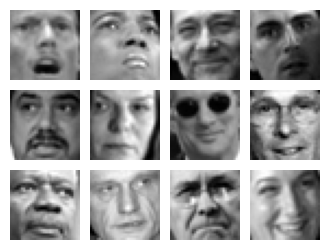
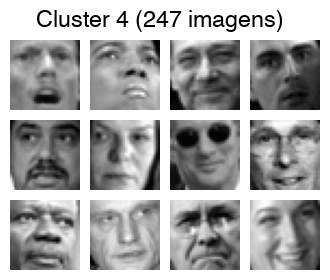
image generate

diff --git a/Proj2/pca_processing.py b/Proj2/pca_processing.py
@@ -1,17 +1,79 @@
+from pathlib import Path
+
 import numpy as np
+import matplotlib.pyplot as plt
 from scipy.io import loadmat
 
 from utils import feature_normalize, pca, project_data, recover_data, show_N_images
 
 
+DATA_PATH = Path(__file__).parent / "data" / "face_data.mat"
+OUTPUT_DIR = Path(__file__).parent / "results" / "pca"
+
+plt.rcParams.update({
+    "font.family": "Helvetica",
+    "font.size": 14,
+    "axes.titlesize": 16,
+    "axes.labelsize": 14,
+    "legend.fontsize": 12,
+})
+
+
+def save_summary_panel(originals, eigenfaces, reconstructions):
+    row_titles = [
+        "Eigenfaces (PCs 1–9)",
+        "Originais",
+        "Reconstruções (100 PCs)",
+    ]
+    images_by_row = (eigenfaces[:9], originals[:9], reconstructions[:9])
+    fig, axes = plt.subplots(3, 9, figsize=(20, 8))
+
+    for row, images in enumerate(images_by_row):
+        for col, image in enumerate(images):
+            axes[row, col].imshow(image, cmap="gray")
+            axes[row, col].axis("off")
+            if row == 0:
+                axes[row, col].set_title(f"PC {col + 1}", fontsize=13)
+            elif row == 1:
+                axes[row, col].set_title(f"Exemplo {col + 1}", fontsize=13)
+
+    fig.suptitle("PCA: eigenfaces e reconstruções", fontsize=22)
+    fig.subplots_adjust(left=0.17, right=0.995, top=0.88, bottom=0.04, wspace=0.06, hspace=0.16)
+    for row, title in enumerate(row_titles):
+        position = axes[row, 0].get_position()
+        fig.text(
+            0.16, position.y0 + position.height / 2, title,
+            ha="right", va="center", fontsize=14,
+        )
+
+    fig.canvas.draw()
+    renderer = fig.canvas.get_renderer()
+    for row, label in ((0, "A"), (1, "B")):
+        title_box = axes[row, 0].title.get_window_extent(renderer)
+        title_center_y = fig.transFigure.inverted().transform(title_box.get_points().mean(axis=0))[1]
+        fig.text(
+            0.16, title_center_y, label,
+            ha="right", va="center", fontsize=24, fontweight="bold",
+        )
+    panel_path = OUTPUT_DIR / "pca_summary_9.png"
+    fig.savefig(panel_path, dpi=200, bbox_inches="tight")
+    plt.show()
+    print(f"Painel resumido salvo em: {panel_path}")
+
+
 def main():
-    faces_data = loadmat("data/face_data.mat")
+    OUTPUT_DIR.mkdir(parents=True, exist_ok=True)
+    faces_data = loadmat(DATA_PATH)
     faces = faces_data["X"]
     # The face vectors use MATLAB's column-major image layout.
     originals = faces[:100].reshape(-1, 32, 32).transpose(0, 2, 1)
     print(faces.shape)
 
-    show_N_images(originals, 100, show=True)
+    show_N_images(
+        originals, 100, show=True,
+        save_path=OUTPUT_DIR / "originals_100.png",
+        title="100 faces originais",
+    )
 
 
     X, mu, sigma = feature_normalize(faces)
@@ -19,16 +81,30 @@ def main():
 
     U, _, _ = pca(X)
     eigenfaces = U[:, :36].T.reshape(-1, 32, 32).transpose(0, 2, 1)
-    show_N_images(eigenfaces, 36, show=True)
+    show_N_images(
+        eigenfaces, 36, show=True,
+        save_path=OUTPUT_DIR / "eigenfaces_36.png",
+        title="36 primeiras eigenfaces",
+    )
 
     Z = project_data(X, U, 100)
     reconstructed = recover_data(Z, U, 100) * sigma + mu
     reconstructions = reconstructed[:100].reshape(-1, 32, 32).transpose(0, 2, 1)
+    show_N_images(
+        reconstructions, 100, show=True,
+        save_path=OUTPUT_DIR / "reconstructions_100.png",
+        title="100 reconstruções usando 100 PCs",
+    )
 
     comparisons = np.concatenate((originals, reconstructions), axis=2)
 
     print(" original esquerda e reconstrução direita.")
-    show_N_images(comparisons, 100)
+    show_N_images(
+        comparisons, 100, show=True,
+        save_path=OUTPUT_DIR / "comparisons_100.png",
+        title="Original à esquerda; reconstrução à direita",
+    )
+    save_summary_panel(originals, eigenfaces, reconstructions)
 
 
 if __name__ == "__main__":

diff --git a/Proj2/kmeans_clustering.py b/Proj2/kmeans_clustering.py
@@ -6,7 +6,7 @@ import matplotlib.pyplot as plt
 import numpy as np
 from scipy.io import loadmat
 
-from utils import kmeans, pca, project_data
+from utils import kmeans, pca, project_data, show_N_images
 
 
 DATA_PATH = Path(__file__).parent / "data" / "face_data.mat"
@@ -16,6 +16,14 @@ K_VALUES = range(1, 9)
 N_CLUSTERS = 4
 IMAGES_PER_CLUSTER = 12
 RANDOM_STATE = 42
+
+plt.rcParams.update({
+    "font.family": "Helvetica",
+    "font.size": 14,
+    "axes.titlesize": 16,
+    "axes.labelsize": 14,
+    "legend.fontsize": 12,
+})
 
 
 def make_contact_sheet(images):
@@ -36,6 +44,55 @@ def make_contact_sheet(images):
         sheet[y : y + image_size, x : x + image_size] = image
 
     return sheet
+
+
+def save_individual_visualizations(ks, inertias, projected_faces, labels, images):
+    fig, axis = plt.subplots(figsize=(8, 6))
+    axis.plot(ks, np.array(inertias) / 1e9, marker="o", label="Inércia")
+    axis.axvline(
+        N_CLUSTERS, color="tab:red", linestyle="--",
+        label=f"k escolhido = {N_CLUSTERS}",
+    )
+    axis.scatter(
+        [N_CLUSTERS], [inertias[ks.index(N_CLUSTERS)] / 1e9],
+        color="tab:red", zorder=3,
+    )
+    axis.set_xticks(ks)
+    axis.set_xlabel("Número de clusters (k)")
+    axis.set_ylabel("Inércia (× 10⁹)")
+    axis.set_title("Curva do cotovelo")
+    axis.grid(True, alpha=0.25)
+    axis.legend()
+    fig.savefig(OUTPUT_DIR / "elbow.png", dpi=200, bbox_inches="tight")
+    plt.close(fig)
+
+    fig = plt.figure(figsize=(8, 7))
+    axis = fig.add_subplot(111, projection="3d")
+    for cluster in range(N_CLUSTERS):
+        members = labels == cluster
+        axis.scatter(
+            projected_faces[members, 0],
+            projected_faces[members, 1],
+            projected_faces[members, 2],
+            label=f"Cluster {cluster + 1}",
+            s=12,
+        )
+    axis.set(xlabel="PC 1", ylabel="PC 2", zlabel="PC 3")
+    axis.set_title("Projeção PCA 3D das imagens")
+    axis.legend(title="K-means nos 1.024 pixels", fontsize=9, title_fontsize=9)
+    fig.savefig(OUTPUT_DIR / "clusters_3d.png", dpi=200, bbox_inches="tight")
+    plt.close(fig)
+
+    for cluster in range(N_CLUSTERS):
+        members = images[labels == cluster]
+        show_N_images(
+            members,
+            IMAGES_PER_CLUSTER,
+            show=False,
+            save_path=OUTPUT_DIR / f"cluster_{cluster + 1}.png",
+            title=f"Cluster {cluster + 1} ({len(members)} imagens)",
+        )
+        plt.close()
 
 
 def main():
@@ -118,6 +175,7 @@ def main():
 
     panel_path = OUTPUT_DIR / "painel_clusters.png"
     fig.savefig(panel_path, dpi=200, bbox_inches="tight")
+    save_individual_visualizations(ks, inertias, projected_faces, labels, images)
     plt.show()
     print(f"Painel salvo em: {panel_path}")
 

diff --git a/Proj2/utils.py b/Proj2/utils.py
@@ -64,7 +64,7 @@ def show_image(array, ind):
     plt.imshow(np.reshape(array[ind], (32, 32)).T, cmap="gray")
     plt.show()
 
-def show_N_images(imgs, N, show=True):
+def show_N_images(imgs, N, show=True, save_path=None, title=None):
     N = min(N, len(imgs))
     if N <= 0:
         raise ValueError("N precisa ser maior que zero e imgs não pode estar vazio.")
@@ -86,6 +86,11 @@ def show_N_images(imgs, N, show=True):
 
     for ax in axes[N:]:
         ax.set_visible(False)
+
+    if title:
+        fig.suptitle(title)
+    if save_path is not None:
+        fig.savefig(save_path, bbox_inches="tight")
 
     if show:
         plt.show()
